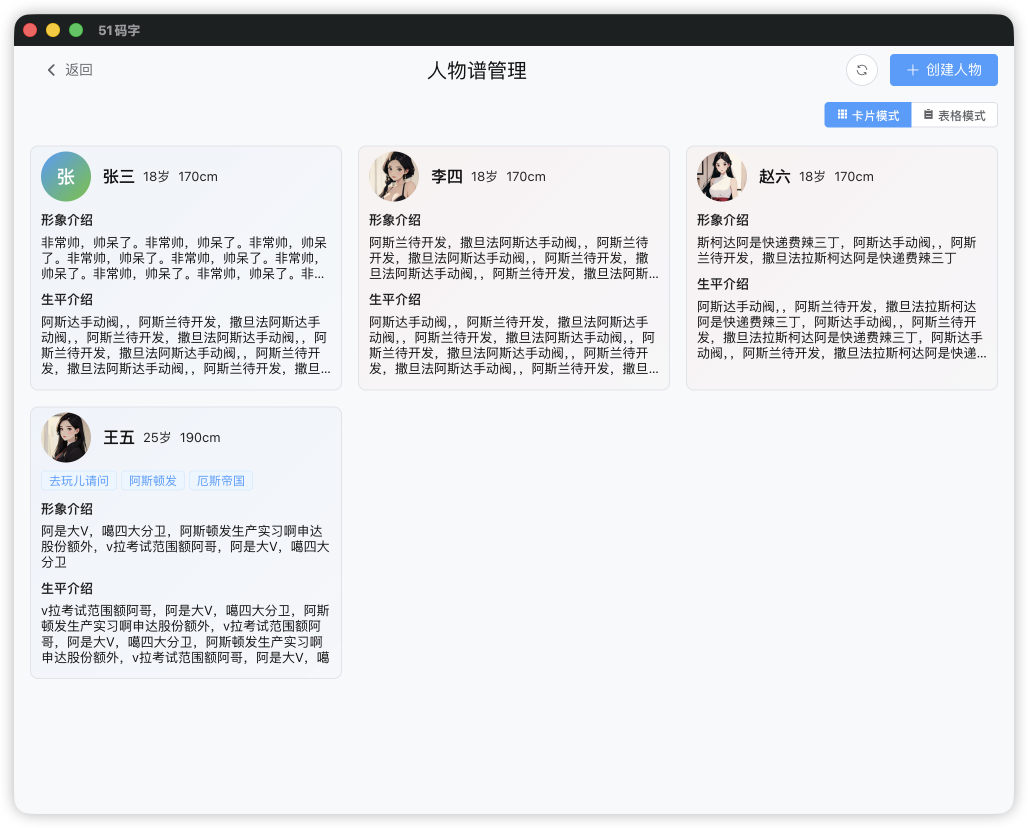
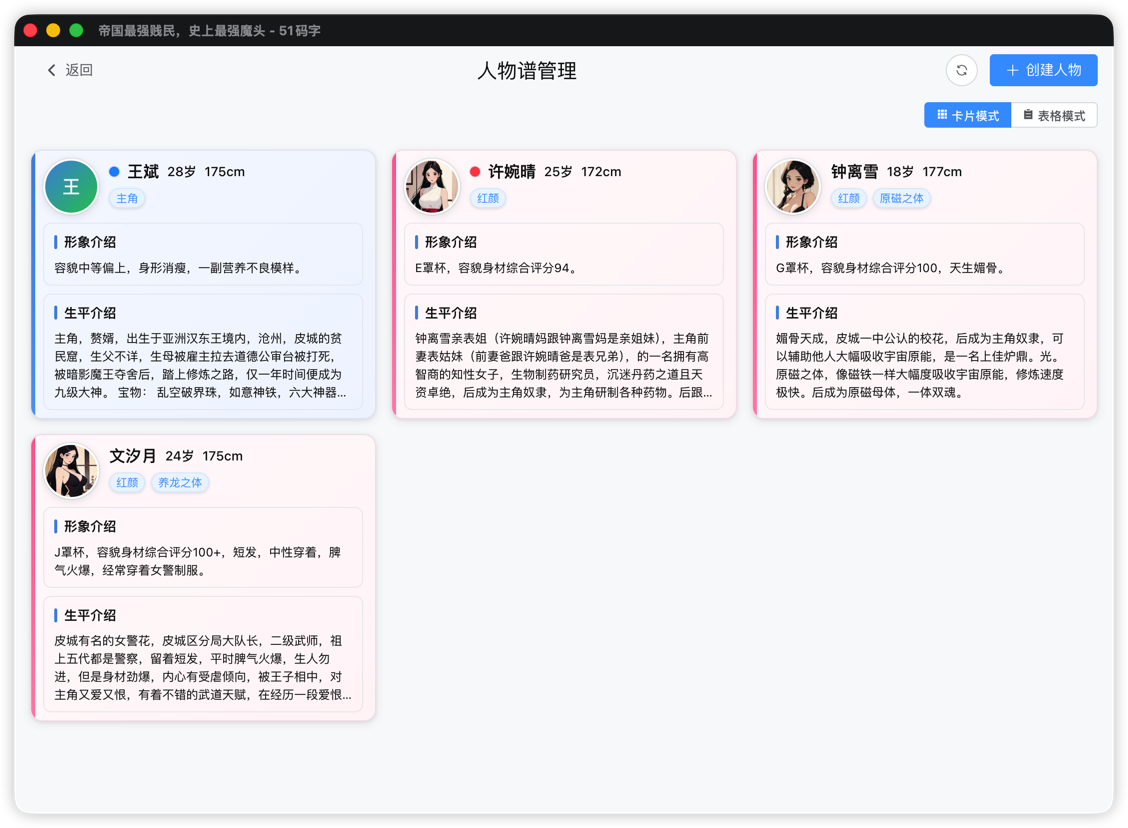
更新人物谱样式，处理关系图bug

diff --git a/src/renderer/src/views/CharacterProfile.vue b/src/renderer/src/views/CharacterProfile.vue
@@ -855,14 +855,11 @@ onBeforeUnmount(() => {
   }
 
   &.male {
-    // 男性卡片：使用蓝色系渐变背景
-    background: linear-gradient(
-      135deg,
-      var(--bg-soft) 0%,
-      var(--bg-primary) 50%,
-      var(--bg-primary) 100%
-    );
-    // 使用伪元素实现左侧边框，避免 border-image 在圆角处的问题
+    // 男性卡片：使用固定的蓝白色背景，不跟随主题变化
+    background: linear-gradient(135deg, #f5f8ff 0%, #f0f5ff 100%);
+    border-color: #e0e8f5;
+
+    // 使用伪元素实现左侧边框
     &::after {
       content: '';
       position: absolute;
@@ -870,30 +867,23 @@ onBeforeUnmount(() => {
       top: 0;
       bottom: 0;
       width: 4px;
-      background: linear-gradient(180deg, var(--primary-color) 0%, var(--info-color) 100%);
+      background: linear-gradient(180deg, #4a90e2 0%, #5ba3f5 100%);
       border-radius: 12px 0 0 12px; // 匹配卡片圆角
       z-index: 0;
     }
 
     &:hover {
-      background: linear-gradient(
-        135deg,
-        var(--bg-soft) 0%,
-        var(--bg-primary-a7) 50%,
-        var(--bg-primary) 100%
-      );
+      background: linear-gradient(135deg, #e6f0ff 0%, #e0ebff 100%);
+      border-color: #d0dbf0;
     }
   }
 
   &.female {
-    // 女性卡片：使用红色系渐变背景
-    background: linear-gradient(
-      135deg,
-      var(--bg-soft) 0%,
-      var(--bg-primary) 50%,
-      var(--bg-primary) 100%
-    );
-    // 使用伪元素实现左侧边框，避免 border-image 在圆角处的问题
+    // 女性卡片：使用固定的粉白色背景，不跟随主题变化
+    background: linear-gradient(135deg, #fff9fb 0%, #fff5f8 100%);
+    border-color: #f5e0e8;
+
+    // 使用伪元素实现左侧边框
     &::after {
       content: '';
       position: absolute;
@@ -901,18 +891,14 @@ onBeforeUnmount(() => {
       top: 0;
       bottom: 0;
       width: 4px;
-      background: linear-gradient(180deg, var(--danger-color) 0%, var(--warning-color) 100%);
+      background: linear-gradient(180deg, #ff6b9d 0%, #ff8fb3 100%);
       border-radius: 12px 0 0 12px; // 匹配卡片圆角
       z-index: 0;
     }
 
     &:hover {
-      background: linear-gradient(
-        135deg,
-        var(--bg-soft) 0%,
-        var(--bg-primary-a7) 50%,
-        var(--bg-primary) 100%
-      );
+      background: linear-gradient(135deg, #fff0f5 0%, #ffebf0 100%);
+      border-color: #f0d5e0;
     }
   }
 }
@@ -1001,14 +987,15 @@ onBeforeUnmount(() => {
   .character-name {
     font-size: 16px;
     font-weight: 600;
-    color: var(--text-base);
+    // 固定黑色，不跟随主题变化
+    color: #121212;
   }
 
   .character-age,
   .character-height {
     font-size: 13px;
-    // 使用主题基础文本颜色，确保在浅色和暗色模式下都有足够的对比度
-    color: var(--text-base);
+    // 固定黑色，不跟随主题变化
+    color: #121212;
     font-weight: 500; // 增加字重，提升可读性
   }
 
@@ -1042,7 +1029,7 @@ onBeforeUnmount(() => {
     padding: 0;
     margin-bottom: 8px;
     // 添加背景和边框，增强层次感
-    background: var(--bg-primary);
+    background: transparent;
     border-radius: 8px;
     padding: 8px 10px;
     border: 1px solid var(--border-color-soft);
@@ -1052,16 +1039,11 @@ onBeforeUnmount(() => {
       margin-bottom: 0;
     }
 
-    &:hover {
-      background: var(--bg-mute);
-      border-color: var(--border-color);
-    }
-
     .section-title {
       font-size: 13px;
       font-weight: 700;
-      // 使用主题基础文本颜色，确保在浅色和暗色模式下都有足够的对比度
-      color: var(--text-base);
+      // 固定黑色，不跟随主题变化
+      color: #121212;
       margin-bottom: 6px;
       // 添加图标样式的小装饰
       position: relative;
@@ -1075,7 +1057,8 @@ onBeforeUnmount(() => {
         transform: translateY(-50%);
         width: 3px;
         height: 14px;
-        background: var(--primary-color);
+        // 使用固定的蓝色，不跟随主题
+        background: #4a90e2;
         border-radius: 2px;
       }
     }
@@ -1083,8 +1066,8 @@ onBeforeUnmount(() => {
 
   .character-intro {
     font-size: 12px;
-    // 使用主题基础文本颜色，确保在浅色和暗色模式下都有足够的对比度
-    color: var(--text-base);
+    // 固定黑色，不跟随主题变化
+    color: #121212;
     line-height: 1.5; // 增加行高，提升可读性
     margin: 0;
     text-align: left;

diff --git a/src/renderer/src/components/RadialMenu.vue b/src/renderer/src/components/RadialMenu.vue
@@ -15,7 +15,7 @@
         d="M269.59,188.46c-4.36,-26.73 -34.27,-56.7 -56.69,-56.7l-3.95,0l0,-61.78l0,-61.71l7.84,0.69c91.98,8.52 166.11,82.6 174.22,174l0.95,10.65l-60.78,0l-60.78,0l-0.82,-5.15z"
         @mouseenter="hover = 'delete'"
         @mouseleave="hover = ''"
-        @click.stop="$emit('delete')"
+        @click.stop="handleDelete"
       />
       <path
         class="c-svg-button"
@@ -57,7 +57,7 @@
     </div>
     <div
       class="icon delete"
-      @click.stop="$emit('delete')"
+      @click.stop="handleDelete"
       @mouseenter="hover = 'delete'"
       @mouseleave="hover = ''"
     >
@@ -108,13 +108,29 @@
 
 <script setup>
 import { ref } from 'vue'
+import { ElMessage } from 'element-plus'
 /**
  * 环绕菜单组件
  * @prop {Boolean} isRoot 是否为根节点，根节点不显示删除按钮
  * @emits info, add, link, delete
  */
-defineEmits(['info', 'add', 'link', 'delete'])
+const props = defineProps({
+  isRoot: {
+    type: Boolean,
+    default: false
+  }
+})
+
+const emit = defineEmits(['info', 'add', 'link', 'delete'])
 const hover = ref('')
+
+const handleDelete = () => {
+  if (props.isRoot) {
+    ElMessage.error('根节点不能删除')
+    return
+  }
+  emit('delete')
+}
 </script>
 
 <style scoped>

diff --git a/src/renderer/src/views/RelationshipDesign.vue b/src/renderer/src/views/RelationshipDesign.vue
@@ -20,6 +20,7 @@
             <template #graph-plug>
               <RadialMenu
                 v-if="showRadialMenu"
+                :is-root="isSelectedNodeRoot"
                 :style="{
                   width: nodeMenuPanel.width + 'px',
                   height: nodeMenuPanel.height + 'px',
@@ -136,7 +137,7 @@
 
 <script setup>
 import LayoutTool from '@renderer/components/LayoutTool.vue'
-import { ref, reactive, onMounted, nextTick } from 'vue'
+import { ref, reactive, onMounted, nextTick, computed } from 'vue'
 import { useRoute } from 'vue-router'
 import { Check } from '@element-plus/icons-vue'
 import { ElMessage, ElMessageBox } from 'element-plus'
@@ -333,6 +334,14 @@ const nodeMenuPanel = ref({
   height: 160,
   x: 0,
   y: 0
+})
+
+// 计算当前选中的节点是否为根节点
+const isSelectedNodeRoot = computed(() => {
+  if (!selectedNode.value) return false
+  // 根节点判断：没有父节点（没有连线指向该节点）
+  const hasParent = relationshipData.lines.some((line) => line.to === selectedNode.value.id)
+  return !hasParent
 })
 
 // 节点点击事件，显示环绕菜单

diff --git a/src/renderer/components.d.ts b/src/renderer/components.d.ts
@@ -45,15 +45,12 @@ declare module 'vue' {
     ElRadioGroup: typeof import('element-plus/es')['ElRadioGroup']
     ElRow: typeof import('element-plus/es')['ElRow']
     ElSelect: typeof import('element-plus/es')['ElSelect']
-    ElSlider: typeof import('element-plus/es')['ElSlider']
     ElSplitter: typeof import('element-plus/es')['ElSplitter']
     ElSplitterPanel: typeof import('element-plus/es')['ElSplitterPanel']
     ElSwitch: typeof import('element-plus/es')['ElSwitch']
     ElTable: typeof import('element-plus/es')['ElTable']
     ElTableColumn: typeof import('element-plus/es')['ElTableColumn']
     ElTag: typeof import('element-plus/es')['ElTag']
-    ElTimeline: typeof import('element-plus/es')['ElTimeline']
-    ElTimelineItem: typeof import('element-plus/es')['ElTimelineItem']
     ElTooltip: typeof import('element-plus/es')['ElTooltip']
     ElTree: typeof import('element-plus/es')['ElTree']
     ElTreeSelect: typeof import('element-plus/es')['ElTreeSelect']
